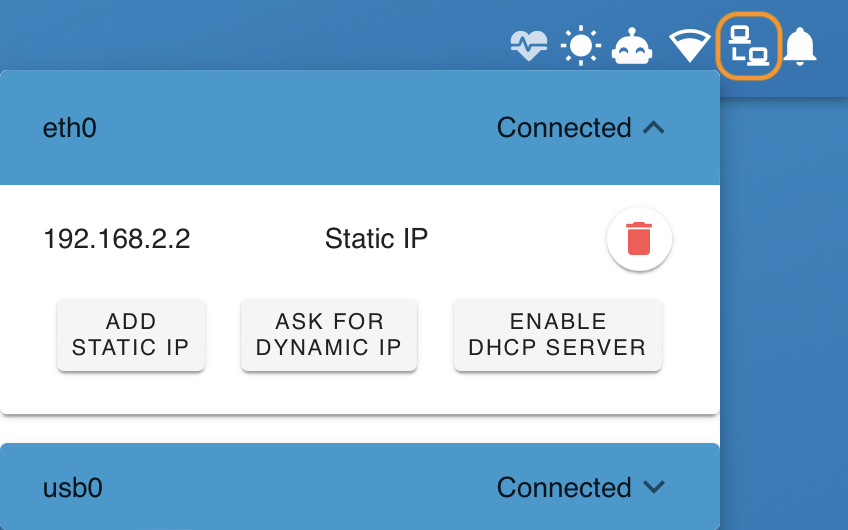
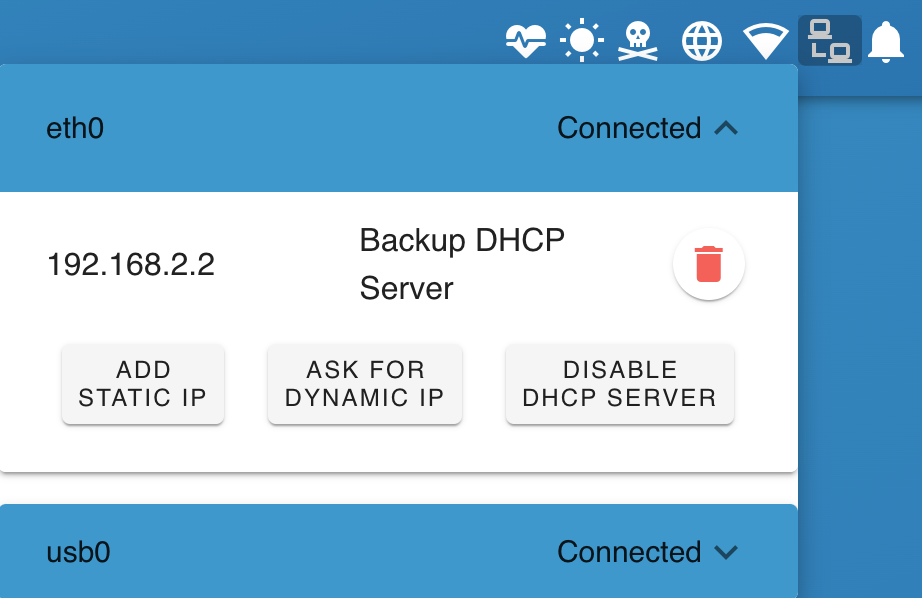
content: usage: advanced: default+backup DHCP server

diff --git a/content/usage/advanced/index.md b/content/usage/advanced/index.md
@@ -100,6 +100,9 @@ When configuring a wired interface, choose between:
 - A dynamic IP
 - A DHCP server
    - Serves the lease range 101-200 `(New in 1.4)`
+   - Can be configured as a backup, which only runs if no existing DHCP server is detected on the network `(New in 1.4)`
+
+{{ easy_image(src="dhcp-server", width=300, center=true) }}
 
 It is possible to have multiple connections per interface type.
 
